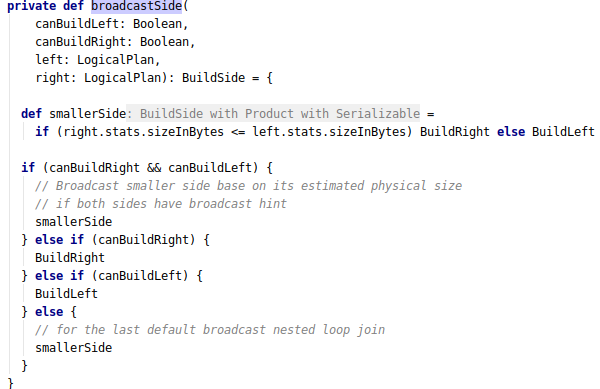
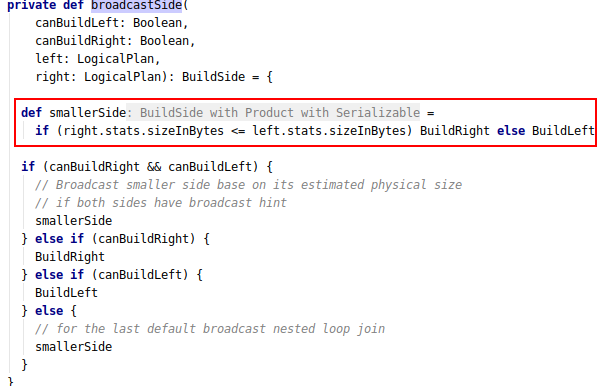
0614

diff --git a/编程/BigData/Spark/api使用/RDD API.md b/编程/BigData/Spark/api使用/RDD API.md
@@ -1,0 +1,54 @@
+#### RDD API
+
+- 生成source RDD
+  
+  - parallelize
+  
+  - textFile
+  
+  - HadoopRDD
+
+- transformation 算子
+  
+  - RDD[T] 形式的RDD的转换
+  - RDD[(K,V)] 形式的RDD的转换
+
+- action 算子
+
+##### 生成source RDD
+
+##### transformation算子
+
+###### RDD[T] 形式的RDD的转换
+
+**下面图表中，rdd1={1,2,3,3}，rdd2={3,4,5}**
+
+| 函数名            | 作用                                                                   | 示例                      | 结果               |
+| -------------- | -------------------------------------------------------------------- | ----------------------- | ---------------- |
+| map()          | 将函数应用于每个元素，返回值是新的RDD                                                 | rdd1.map(x => x+1)      | {2,3,4,4}        |
+| flatMap()      | 将函数应用于每个元素，将元素数据进行拆分，flatmap 要求输入的函数的返回值是TraversableOnce类型的子类（即迭代器）。 | rdd1.flatMap(x=>x to 3) | {1,2,3,2,3,3,3}  |
+| filter()       | 过滤掉不符合条件的元素。                                                         | rdd1.filter(x => x!=1)  | {2,3,3}          |
+| distinct()     | 将rdd中的元素去重                                                           | rdd1.distinct()         | {1,2,3}          |
+| union()        | 生成包含两个RDD 的新的RDD                                                     | rdd1.union(rdd2)        | {1,2,3,3,3,4,5}  |
+| intersection() | 求两个RDD 的共同元素                                                         | rdd1.intersection(rdd2) | {3}              |
+| substract()    | 将原RDD和参数里面的RDD相同的元素去掉                                                | rdd1.substract(rdd2)    | {1,2}            |
+| cartesian()    | 两个rdd 的笛卡尔积                                                          | rdd1.cartesian(rdd2)    | {(1,3),(1,4)...} |
+| sortBy()       | 对每个元素求出key值，然后进行排序                                                   | rdd1.sortBy(\_)         | {1,2,3,3}        |
+| zip()          | 和输入的RDD进行横向拼接，要求输入rdd 和 原rdd 分区数量相同，分区内的元素数量相同。                      |                         |                  |
+| zipWithIndex() | 把每个元素变成，(元素，index)                                                   |                         |                  |
+
+###### RDD[(K,V)] 形式的RDD的转换
+
+**所有对 RDD[(K,V)]的处理函数都在PairRDDFunctions 这个类中。**
+
+| 函数名           | 作用                                            | 实例  | 结果  |
+| ------------- | --------------------------------------------- | --- | --- |
+| join系列函数      | 对左右两侧的RDD，按照key 进行关联，然后得到 key,(左value，右value) |     |     |
+| mapValues     | 对value 进行转换                                   |     |     |
+| flatMapValues | 对value进行展开                                    |     |     |
+
+##### action算子
+
+action 算子是真正触发 spark 进行计算的算子。
+
+![](img/action.png)

diff --git a/编程/BigData/Spark/源码/Spark SQL/Join执行计划选择.md b/编程/BigData/Spark/源码/Spark SQL/Join执行计划选择.md
@@ -3,10 +3,16 @@
 - join 算法选择
 
 - broadcast side 选择
+  
+  - broadcast side 源码
+  
+  - 数据大小判断源码
 
 ##### 
 
 ##### broadcast side 选择
+
+###### broadcast side 源码
 
 入口：org.apache.spark.sql.execution.SparkStrategies.JoinSelection#broadcastSide
 
@@ -18,14 +24,11 @@ JoinSelection#apply
     |    判断是左侧 broadcast 还是右侧 broadcast 的方法
     +--- broadcastByHints()
     +--- broadcastBySizes()
-
 ```
-
-
 
 1. BroadcastByHints 和 BroadcastBySizes 最终会调用 broadcastSide。<br>
    
-   该方法入参：左表右表是否能被广播，以及左表和右表的LogicalPlan。<br>判断逻辑：当只有一侧能能够broadcast时，选择那一侧，否侧选择体积更小的一侧。
+   该方法入参：左表右表是否能被广播，以及左表和右表的LogicalPlan。<br>判断逻辑：当只有一侧能能够broadcast时，选择那一侧，否侧选择体积更小的一侧。**当两侧都可broadcast，并且sizeInBytes相同，则广播右表。**
 
 ![](img/BroadcastSide_SourceCode.png)
 
@@ -38,13 +41,60 @@ JoinSelection#apply
    其中 canBuildRight 的逻辑如下：
    
    ![](img/canBuildRight_SourceCode.png)
-   
-   
+
 3. 对于 canBroadcastByHints 来说，能够 build某一侧的表的条件是 sql 中使用了 hint
    
    ![](img/canBroadcastByHints_SourceCode.png)
 4. 对于 canBroadcastBySizes 来说，需要文件大小小于 autoBroadcastThreshold
    
    ![](img/canBroadcastBySizes_SourceCode.png)
+
+
+
+###### 数据大小判断源码
+
+有上面的源码可知，broadcast 的size是通过左右侧的logicalPlan的 stats中的 sizeInBytes 进行判断的。logicalPlan 的 stats 的源码如下：<br>
+
+从源码可以看出，LogicalPlan 的 statistics 最终是 BasicStatsPlanVisitor 或者 SizeInBytesOnlyStatsPlanVisitor 遍历 执行计划的子树获得的，采用的是访问者模式进行遍历。
+
+![](img/LogicalPlan_stats.png)
+
+
+
+**SizeInBytesOnlyStatsPlanVisitor会对不同节点的数据进行估算，但是最终所有的数据大小来源都会从LogicalPlan的叶子结点开始汇总，叶子结点的大小通过 computeStats 进行计算。以下是源码**<br>
+
+![](img/SizeInBytesOnlyStatsPlanVisitor_default.png)
+
+**此外，Project 和 Filter 等都是通过 visitUnaryNode方法进行估算的，大致的算法只和输入输出字段的数据大小比例有关**
+
+![](img/SizeInBytesOnlyStatsPlanVisitor_visitUnaryNode.png)
+
+
+
+LeafNode 通常是读取source 的执行计划，下面是常见的 Hive 数据源**HiveTableRelation**。获取 HiveTable 的统计信息是在 DetermineTableStats 这个类中，源码如下：<br>
+
+其中，有两个 spark 的配置项和获取HiveTable统计信息有关
+
+- **spark.sql.statistics.fallBackToHdfs**：
+  
+  - 默认值是 false
+  
+  - 用于控制是否从 HDFS 中获取HiveTable 的所在路径的大小当做 HiveTable 的大小
+
+-  **spark.sql.defaultSizeInBytes**
+  
+  - 默认值是 Long.MaxValue。
+  
+  - 当不启用fallBackToHdfs是，所有 HiveTable 的大小都会取该值。
+
+![](img/DetermineTableStats.png)
+
+
+
+
+
+
+
+
 
 

diff --git a/编程/BigData/Spark/源码/RDD源码.md b/编程/BigData/Spark/源码/RDD源码.md
@@ -1,0 +1,59 @@
+#### RDD源码
+
+- task中如何调用rdd进行运算
+  
+  - 计算入口
+  
+  - RDD 的 Iterator 的方法
+  
+  - MapPartitionsRDD 的 compute的方法
+  
+  - HadoopRDD 的 compute的方法
+  
+  - Shuffle
+
+##### task中如何调用rdd进行运算
+
+###### 计算入口
+
+Spark在运行任务时，会把 task 提交到 Executor 中的线程池中，并在线程池中最终调用 Task 类的 run 方法。而 run 方法优惠调用 runTask 方法。这是一个抽象方法，由子类 ResultTask 和 ShuffleMapTask实现。以下是两个实现类的 runTask 方法。<br>
+
+**ResultTask#runTask**
+
+![](img/ResultTask_runTask.png)<br>
+
+**ShuffleMapTask#runTask**<br>
+
+![](img/ShuffleMapTask_runTask.png)<br>
+
+从上面的代码中看出最终的计算是调用 rdd 的 Iterator 方法或者结果的迭代器，然后不断迭代得到全部结果。
+
+
+
+###### RDD 的 Iterator 的方法
+
+RDD 的 iterator 方法是 final 方法，代码如下。RDD会首先判断结果是否存在与cache（通过 getOrCompute ）或存在 checkPoint （通过 computeOrReadCheckpoint），如果没有就会去调用 rdd 的compute 方法。compute 是抽象方法由各个 RDD 子类负责实现。
+
+![](img/RDD_iterator.png)
+
+
+
+###### MapPartitionsRDD 的 compute 方法
+
+MapPartitionsRDD 的 compute 主要通过包装器模式对 parent 的 Iterator 添加当前 RDD 的处理逻辑。其代码如下。其中 f 函数是从构造器中传入的，这个函数的作用是对 parent 的 Iterator 进行包装，添加当前RDD 的处理逻辑。**通过不断的递归调用直到source类型RDD 或者 shuffle read 类型的RDD，这些rdd 返回了真正返回 element 的 Iterator，然后不断递归封装，最后得到的是包含整个管道处理逻辑的 Iterator。**
+
+![](img/MapPartitionsRDD_compute.png)<br>
+
+RDD的大部分宅依赖的 transformation 函数都是构造 MapPartitionsRDD 。下面是 map， filter 和 flatMap 的函数源码，可以看到三个函数分别调用了 Iterator 类的 map，flatMap 和 filter 方法。
+
+![](img/RDD_map_flatMap_filter.png)<br>
+
+Iterator 的 map，flatMap 和 filter 的源码如下，都是使用了包装器模式，对Iterator 的 next 和 hasNext 进行了包装。
+
+![](img/Iterator_map.png)
+
+![](img/Iterator_flatMap.png)
+
+![](img/Iterator_filter.png)
+
+

diff --git a/编程/BigData/Spark/源码/spark任务调度和DAG生成源码.md b/编程/BigData/Spark/源码/spark任务调度和DAG生成源码.md
@@ -24,7 +24,7 @@
 
 5. task scheduler 就会把提交过来的task set 分配到指定的机器去执行。分配的方式主要根据 getPreferredLocs获取比较好的执行task 的机器。
 
-![](../img/SparkJobStartProcess.PNG)
+![](img/SparkJobStartProcess.PNG)
 
 ###### spark DAG 生成过程
 
@@ -32,7 +32,7 @@
 
 该图对应的是一个job，其中每个虚线框代表一个stage，每个stage内的一条线就代表的是一个task。一个实线方框代表一个RDD，一个RDD内的块代表一个partition。
 
-![](../img/SparkStageExample.png)
+![](img/SparkStageExample.png)
 
 1. 通过RDD的action 触发
 
@@ -42,11 +42,11 @@
 
 4. 当一个stage 没有 missing stage 的时候就会通过 submitMissingTask 方法把 stage 根据partition 切分成task 去运行。
 
-![](../img/submitStage.PNG)
+![](img/submitStage.PNG)
 
 5. 其中getMissingParentStages 方法做得事情就是根据 stage 对应的RDD，遍历该RDD对应的所有dependent RDD。遍历的时候做以下事情
    1. 对于shuffleDependency就添加到missing中，即这些 RDD是属于依赖到的并且还没提交的stage。这些stage 返回后就会在submitStage中继续递归解析。
    
    2. 对于 NarrowDependency，继续对窄依赖的dependency进行搜索，知道找到没有依赖的RDD，即source。
 
-![](../img/getMissingParentStages.PNG)
+![](img/getMissingParentStages.PNG)
